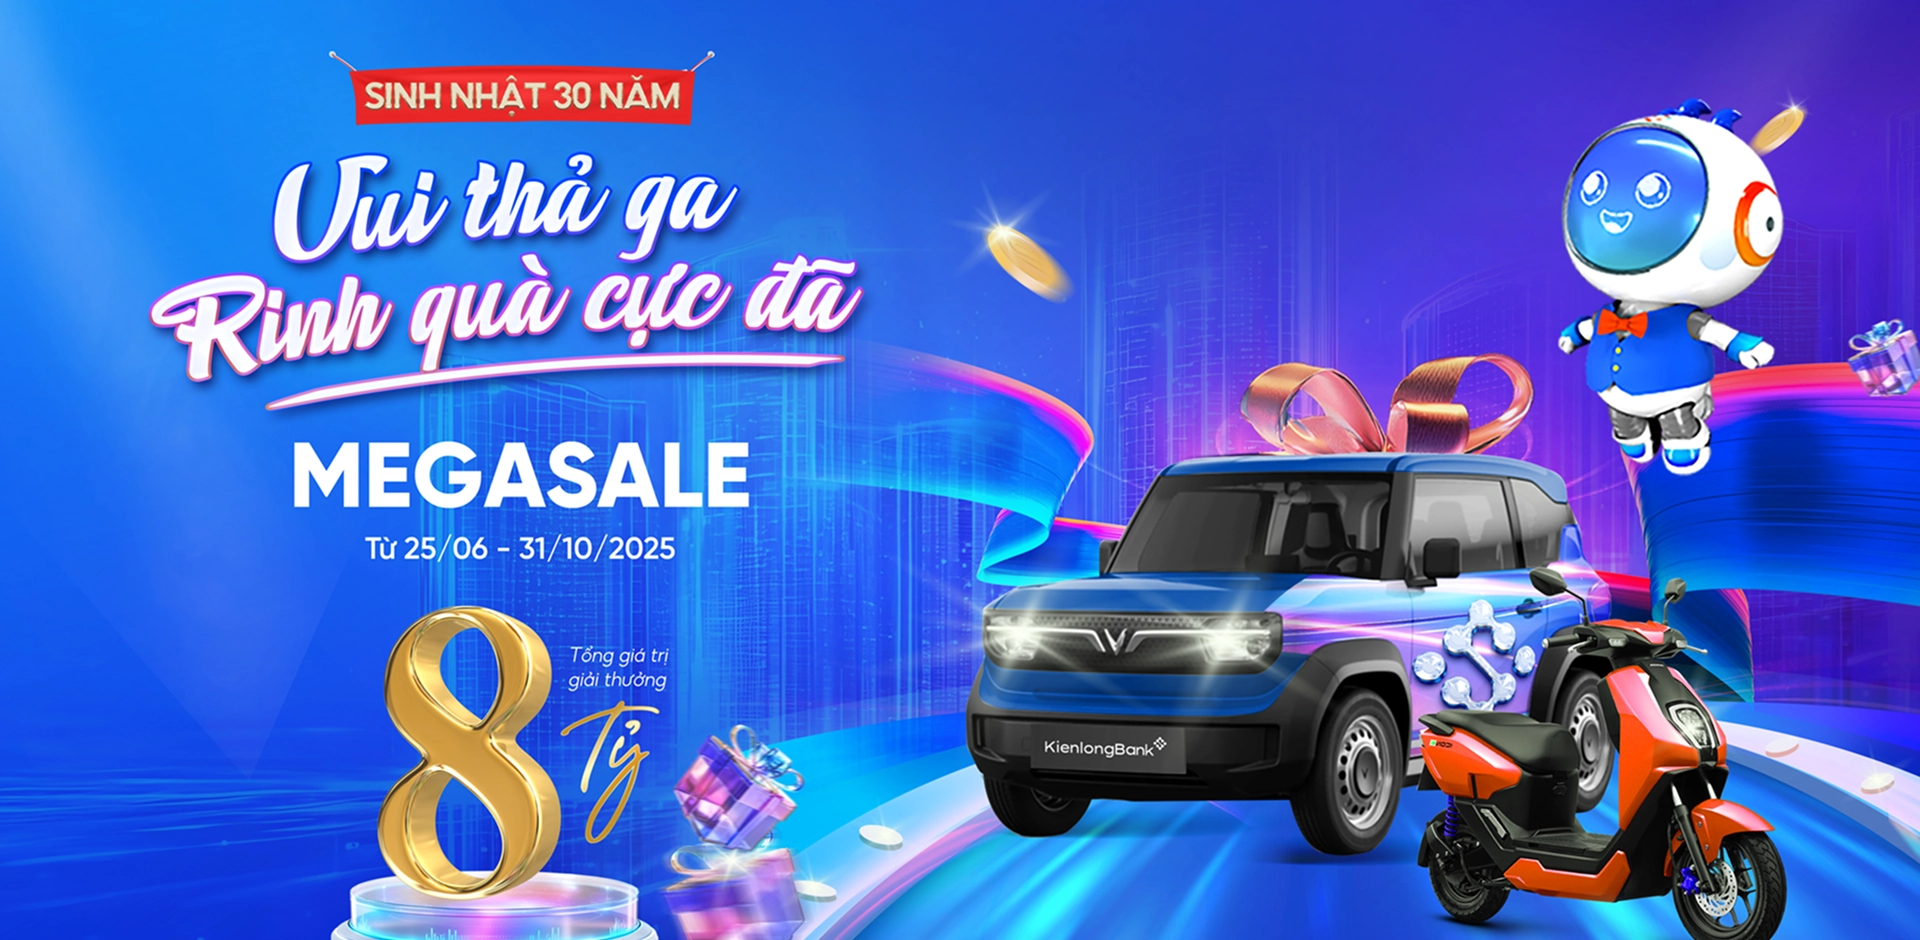
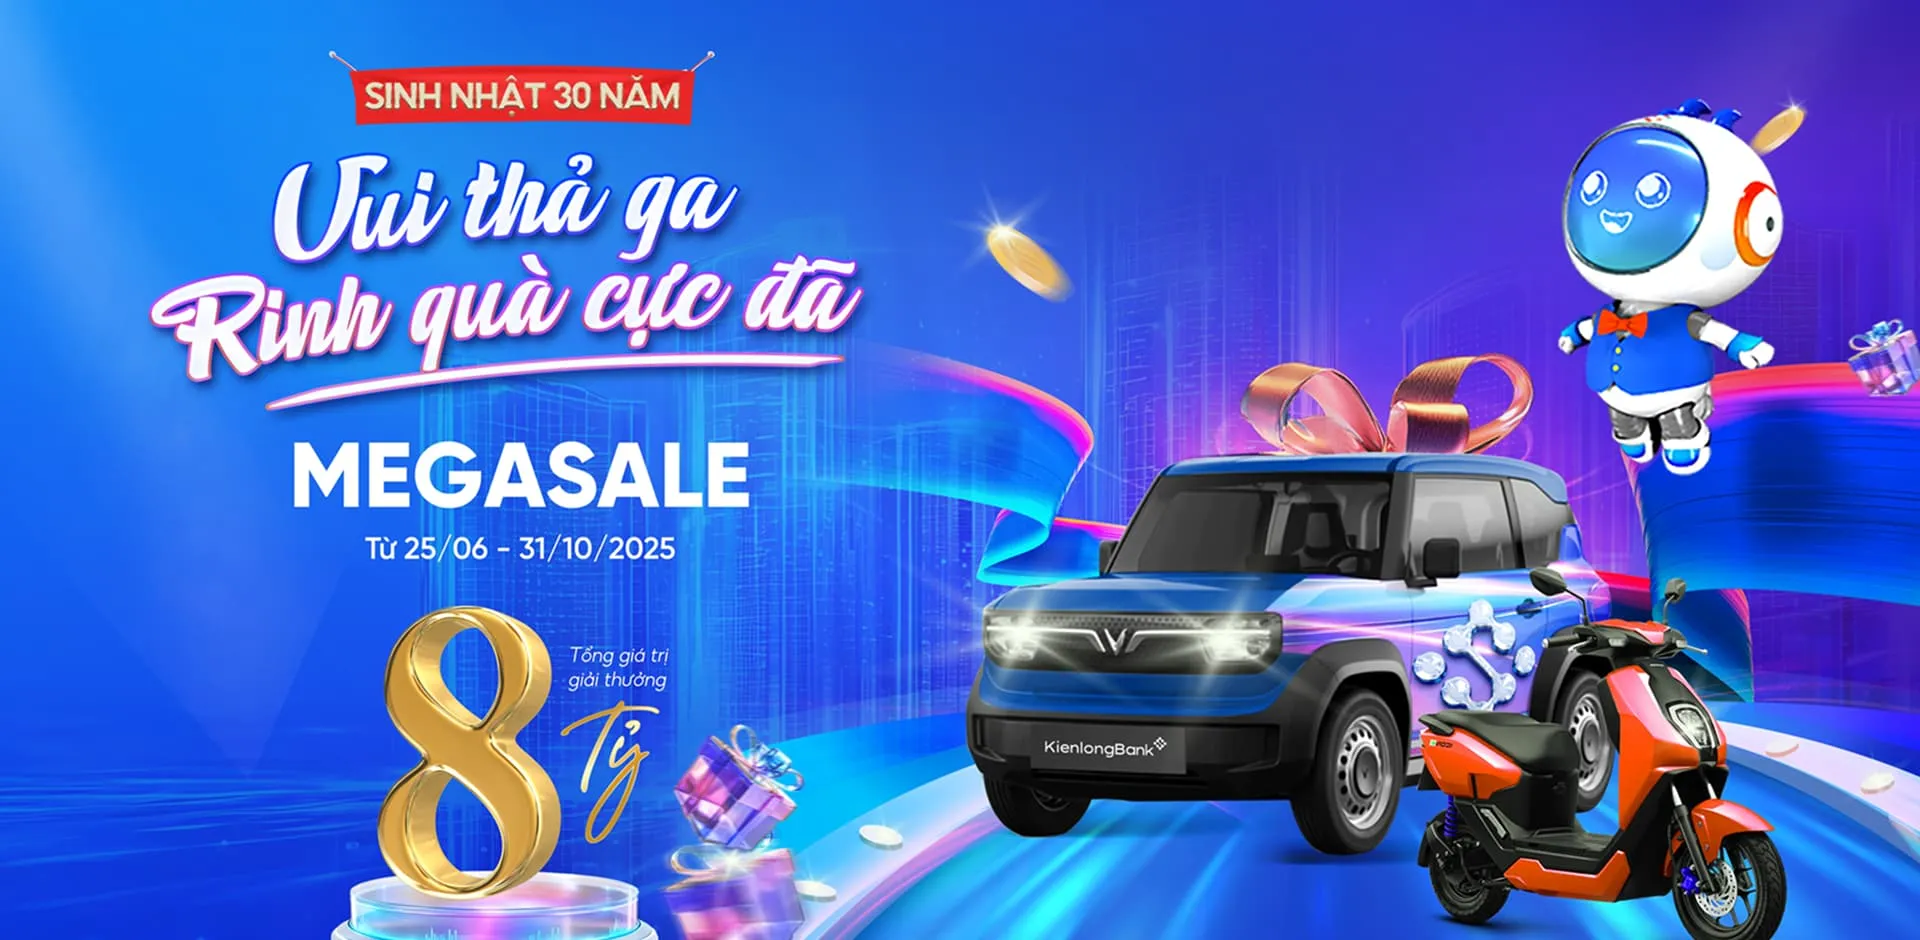
resize image

Changed region(s): [[0.3125, 0.7404, 0.3438, 0.833]]

diff --git a/src/data.ts b/src/data.ts
@@ -1,4 +1,4 @@
-import bgImage from "./assets/bg.jpg";
+import bgImage from "./assets/bg.webp";
 import bg2Image from "./assets/bg2Destop.webp";
 import bgPopup from "./assets/bgPopup.webp";
 import car from "./assets/car_rs.png";
